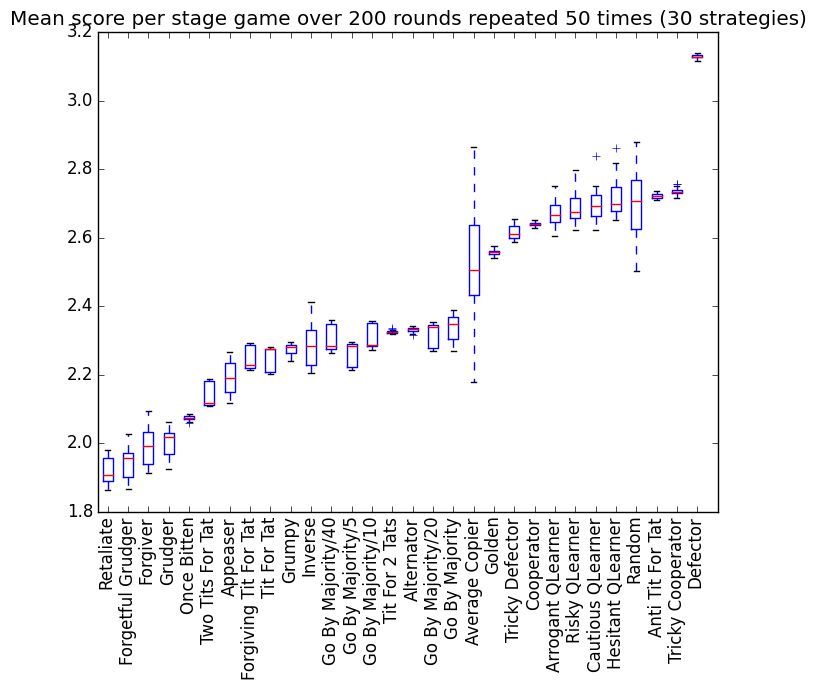
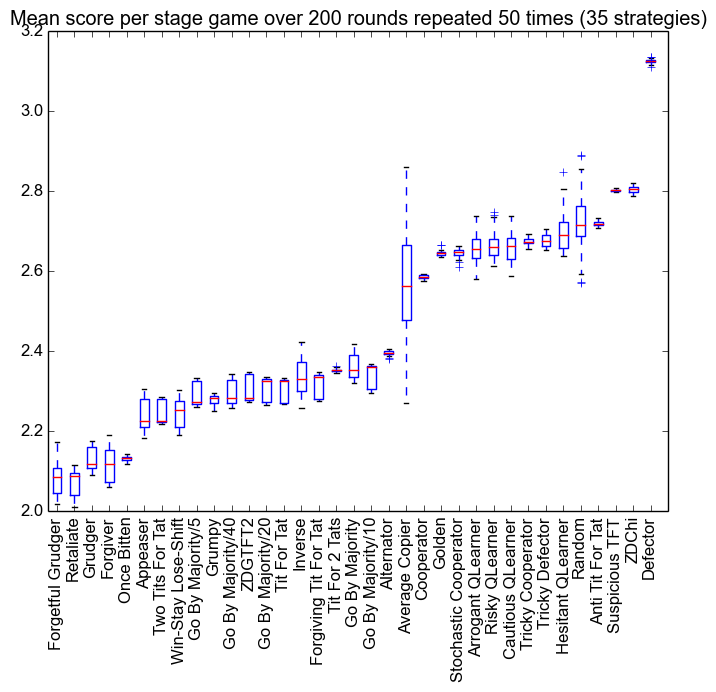
Memory-One strategies including WSLS, Zero Determinant, and a few others

Changed region(s): [[0.0, 0.0, 1.0, 1.0], [0.1229, 0.9435, 0.1536, 0.9739]]

diff --git a/axelrod/strategies/memoryone.py b/axelrod/strategies/memoryone.py
@@ -1,0 +1,95 @@
+import random
+
+from axelrod import Player
+
+"""IPD Strategies: http://www.prisoners-dilemma.com/strategies.html"""
+
+class MemoryOnePlayer(Player):
+    """Uses a four-vector for strategies based on the last round of play, (P(C|CC), P(C|CD), P(C|DC), P(C|DD)), defaults to Win-Stay Lose-Shift ."""
+
+    name = 'Memory One Player'
+
+    def __init__(self, four_vector=[1,0,0,1], initial='C'):
+#        super(self.__class__, self).__init__()
+        Player.__init__(self)
+        self._four_vector = dict( zip(  [ ('C','C'), ('C','D'), ('D','C'), ('D','D')], map(float, four_vector) ) )
+        self._initial = initial
+
+    def strategy(self, opponent):
+        if not len(opponent.history):
+             return self._initial
+        # Determine which probability to use
+        p = self._four_vector[(self.history[-1], opponent.history[-1])]
+        # Draw a random number in [0,1] to decide
+        r = random.random()
+        if r < p:
+            return 'C'
+        return 'D'
+
+class WinStayLoseShift(MemoryOnePlayer):
+    """Win-Stay Lose-Shift, also called Pavlov."""
+
+    name = 'Win-Stay Lose-Shift'
+
+    def __init__(self):
+        four_vector = [1,0,0,1]
+        super(self.__class__, self).__init__(four_vector)
+
+def zd_vector1(chi):
+    return (1. - (2. * chi - 2.) / (4. * chi + 1.), 0.,
+            (chi + 4.) / (4. * chi + 1.), 0.)
+
+def zd_vector2(chi):
+    return (1., (chi - 1.)/(3. * chi + 2.), 1., 2.*(chi - 1.)/(3. * chi + 2.))
+
+class ZDChi(MemoryOnePlayer):
+    """An Extortionate Zero Determinant Strategy."""
+
+    name = 'ZDChi'
+
+    def __init__(self):
+        four_vector = zd_vector1(2.)
+        super(self.__class__, self).__init__(four_vector)
+
+class ZDGTFT2(MemoryOnePlayer):
+    """A Generous Zero Determinant Strategy."""
+
+    name = 'ZDGTFT2'
+
+    def __init__(self):
+        four_vector = zd_vector2(2.)
+        super(self.__class__, self).__init__(four_vector)
+
+class GTFT2(MemoryOnePlayer):
+    """Generous Tit-For-Tat Strategy."""
+
+    name = 'ZDGTFT2'
+
+    def __init__(self):
+        four_vector = zd_vector2(2.)
+        super(self.__class__, self).__init__(four_vector)
+
+class StochasticCooperator(MemoryOnePlayer):
+    """Stochastic Cooperator, http://www.nature.com/ncomms/2013/130801/ncomms3193/full/ncomms3193.html."""
+
+    name = 'Stochastic Cooperator'
+
+    def __init__(self):
+        four_vector = (0.935, 0.229, 0.266, 0.42)
+        super(self.__class__, self).__init__(four_vector)
+
+
+class SuspiciousTFT(MemoryOnePlayer):
+    """Suspicious Tit-For-Tat Strategy."""
+
+    name = 'Suspicious TFT'
+
+    def __init__(self):
+        four_vector = (1.,0.,1.,0.)
+        super(self.__class__, self).__init__(four_vector, initial='D')
+
+# tft = (1.,0.,1.,0.)
+# wsls = (1.,0.,0.,1.)
+# alld = (0.,0.,0.,0.)
+# allc = (1.,1.,1.,1.)
+

diff --git a/axelrod/strategies/__init__.py b/axelrod/strategies/__init__.py
@@ -17,6 +17,8 @@ from forgetfulgrudger import *
 from oncebitten import *
 from golden import *
 from retaliate import *
+from memoryone import WinStayLoseShift, ZDChi, ZDGTFT2, SuspiciousTFT, StochasticCooperator
+
 
 strategies = [
         Defector,
@@ -49,6 +51,11 @@ strategies = [
         OnceBitten,
         Golden,
         Retaliate,
+        WinStayLoseShift,
+        ZDChi,
+        ZDGTFT2,
+        SuspiciousTFT,
+        StochasticCooperator,
         ]
 
 #These are strategies that do not follow the rules of Axelrods tournement.
